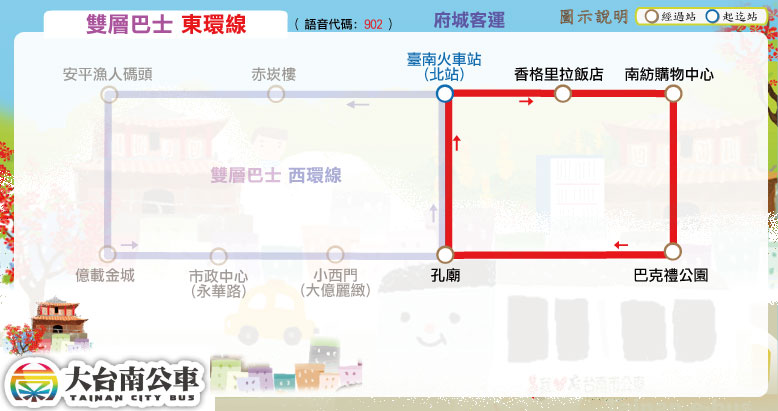
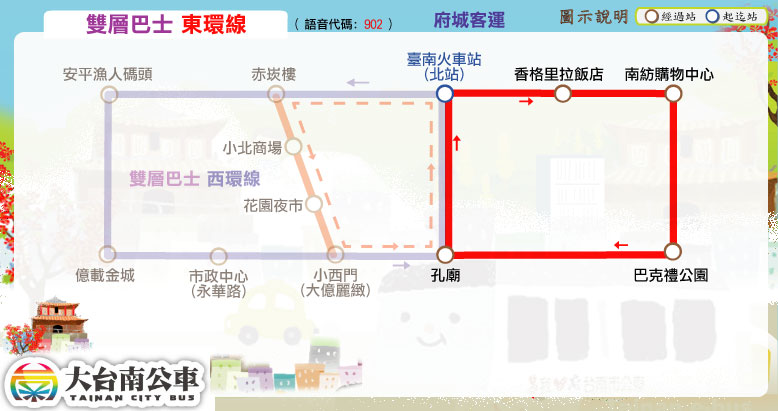
更新時刻表及路線圖：雙層巴士西環線(增加經花園夜市之星光班次)

diff --git a/sightseeing/western.html b/sightseeing/western.html
@@ -20,7 +20,49 @@
 <script type="text/javascript">
 	block_header();
 	block_route_map(null);
-	block_route_info(route_interval,'府城客運','','里程計費','http://www.2384.com.tw/ebus/jsp/ajaxBus.jsp?pathId=1901&locale=zh_TW');
+
+	document.write('<div id="wrapper2">\
+	<a name="info"></a>\
+	<div id="routeinfo" class="container">\
+		<div class="title">\
+			<h2>大台南公車 ─ ' + route_name + ' 路線資訊</h2>\
+			<span class="byline">Tainan Bus ' + route_name_en + ', Route Information</span>\
+		</div>\
+		<div class="content">\
+			<table border="0">\
+				<tr>\
+					<td>起迄點</td>\
+					<td>臺南火車站(起迄點相同)</td>\
+				</tr>\
+				<tr>\
+					<td>營運公司</td>\
+					<td>府城客運</td>\
+				</tr>\
+				<tr>\
+					<td>首／末班車發車時刻</td>\
+					<td>\
+						往 安平漁人碼頭：09:00／18:00<br />\
+						往 花園夜市：18:30／21:00\
+					</td>\
+				</tr>\
+				<tr>\
+					<td>班距</td>\
+					<td>固定班次</td>\
+				</tr>\
+				<tr>\
+					<td>收費方式</td>\
+					<td>一日票、4小時票</td>\
+				</tr>\
+				<tr>\
+					<td>最後修改日期</td>\
+					<td>2018/07/01</td>\
+				</tr>\
+			</table>\
+			<p>　</p>\
+			<a href="http://www.2384.com.tw/ebus/jsp/ajaxBus.jsp?pathId=1901&locale=zh_TW" class="button">公車動態資訊</a>\
+		</div>\
+	</div>\
+</div>');
 	document.write('<div id="wrapper3">\
 	<a name="fare"></a>\
 	<div id="faretable" class="container">\
@@ -32,21 +74,23 @@
 			<h1>單日票：全票500元、優待票250元</h1>\
 			<p>&nbsp;</p>\
 			<h1>4小時票：全票300元、優待票150元</h1>\
+			<p>&nbsp;</p>\
+			<h2>憑雙層巴士票根，當日可免費轉乘大台南公車</h2>\
 			<center>\
+				<div style="text-align: left; width: 650px; border:solid 1px; margin-top: 30px; background-color: #BBFFBB; padding: 15px;"><h3><span style="color: red;">台南市民乘車優惠</span></h3>\
+					<ul type="square">\
+						<li><h3>107年4月1日起至107年8月31日止</h3></li>\
+						<li>►<span style="color:red;font-weight:bold;">4小時票</span> 原價NT.300，4小時內不限次數上下車(限當日使用)</li>\
+						<li>►持<span style="color:blue;font-weight:bold;">台南市民卡(一般卡)</span>刷卡搭乘，享<span style="color: red;font-weight:bold;">優惠價200元</span></li>\
+						<li>►持<span style="color:blue;font-weight:bold;">台南市民卡(敬老卡、愛心卡、愛心陪伴卡、學生卡)</span>刷卡搭乘，享<span style="color: red;font-weight:bold;">優惠價150元</span></li>\
+					</ul>\
+				</div>\
 				<div style="text-align: left; width: 650px; border:solid 1px; margin-top: 30px; background-color: #BBFFBB; padding: 15px;"><h3><span style="color: red;">即日起至107年8月31日止，臺南雙層巴士4小時票升級一日票！</span></h3>\
 					<ul type="square">\
 						<li>►凡持4小時票者，可使用期限延長至當日營業時間內有效。</li>\
 						<li>►不限購票管道，凡購買4小時票皆能在活動期間內延展。</li>\
 						<li>►本活動不可與其他優惠並行使用。</li>\
 						<li>►本活動因故無法進行時，業者保有修改、變更或暫停本活動之權利，如有未盡事宜，悉依業者相關規定或解釋辦理，並得隨時補充公告之。</li>\
-					</ul>\
-				</div>\
-				<div style="text-align: left; width: 650px; border:solid 1px; margin-top: 30px; background-color: #BBFFBB; padding: 15px;"><h3><span style="color: red;">台南市民乘車優惠</span></h3>\
-					<ul type="square">\
-						<li><h3>107年4月1日起至107年6月30日止</h3></li>\
-						<li>►<span style="color:red;font-weight:bold;">4小時票</span> 原價NT.300，4小時內不限次數上下車(限當日使用)</li>\
-						<li>►持<span style="color:blue;font-weight:bold;">台南市民卡(一般卡)</span>刷卡搭乘，享<span style="color: red;font-weight:bold;">優惠價200元</span></li>\
-						<li>►持<span style="color:blue;font-weight:bold;">台南市民卡(敬老卡、愛心卡、愛心陪伴卡、學生卡)</span>刷卡搭乘，享<span style="color: red;font-weight:bold;">優惠價150元</span></li>\
 					</ul>\
 				</div>\
 			</center>\
@@ -60,11 +104,14 @@
 		<span class="byline">Tainan Bus ' + route_name_en + ', Bus schedule</span>\
 	</div>\
 	<div class="content">\
-		<h2><font color="purple">臺南火車站→安平漁人碼頭→臺南火車站</font></h2>'
+		<h2><span style="color:purple;">臺南火車站→安平漁人碼頭→臺南火車站</span></h2>'
 	+ create_time_schedule(sightseeing_western_main_stop_name, sightseeing_western_main_stop_time_consume, sightseeing_western_important_stop, sightseeing_western_time_go, false)
-	+ TimeScheduleMSG + '</div>\
+		+ '<p>　</p>\
+			<h2><span style="color:purple;">臺南火車站→花園夜市→臺南火車站</span> <span style="color:blue">(星光班次)</span></h2>'
+	+ create_time_schedule(sightseeing_western_main_stop_name_night, sightseeing_western_main_stop_time_consume_night, sightseeing_western_important_stop_night, sightseeing_western_time_go_night, false)
+	+ TimeScheduleMSG + '<span style="font-size: 20px;font-weight:bold;">「<span style="color:blue;">導覽</span>」表示華語導覽班次。其他無華語導覽人員服務班次，將使用語音導覽系統播報</span></div>\
 </div>');
-	block_transfer(transfer_tainan_railway_station);
+	block_transfer(transfer_tainan_railway_station + transfer_anping_fishermans_wharf);
 	block_copyright();
 </script>
 </body>

diff --git a/sightseeing/eastern.html b/sightseeing/eastern.html
@@ -20,7 +20,7 @@
 <script type="text/javascript">
 	block_header();
 	block_route_map(null);
-	block_route_info(route_interval,'府城客運','','里程計費','http://www.2384.com.tw/ebus/jsp/ajaxBus.jsp?pathId=1902&locale=zh_TW');
+	block_route_info(route_interval,'府城客運','','一日票、4小時票','http://www.2384.com.tw/ebus/jsp/ajaxBus.jsp?pathId=1902&locale=zh_TW');
 	document.write('<div id="wrapper3">\
 	<a name="fare"></a>\
 	<div id="faretable" class="container">\
@@ -32,21 +32,23 @@
 			<h1>單日票：全票500元、優待票250元</h1>\
 			<p>&nbsp;</p>\
 			<h1>4小時票：全票300元、優待票150元</h1>\
+			<p>&nbsp;</p>\
+			<h2>憑雙層巴士票根，當日可免費轉乘大台南公車</h2>\
 			<center>\
+				<div style="text-align: left; width: 650px; border:solid 1px; margin-top: 30px; background-color: #BBFFBB; padding: 15px;"><h3><span style="color: red;">台南市民乘車優惠</span></h3>\
+					<ul type="square">\
+						<li><h3>107年4月1日起至107年8月31日止</h3></li>\
+						<li>►<span style="color:red;font-weight:bold;">4小時票</span> 原價NT.300，4小時內不限次數上下車(限當日使用)</li>\
+						<li>►持<span style="color:blue;font-weight:bold;">台南市民卡(一般卡)</span>刷卡搭乘，享<span style="color: red;font-weight:bold;">優惠價200元</span></li>\
+						<li>►持<span style="color:blue;font-weight:bold;">台南市民卡(敬老卡、愛心卡、愛心陪伴卡、學生卡)</span>刷卡搭乘，享<span style="color: red;font-weight:bold;">優惠價150元</span></li>\
+					</ul>\
+				</div>\
 				<div style="text-align: left; width: 650px; border:solid 1px; margin-top: 30px; background-color: #BBFFBB; padding: 15px;"><h3><span style="color: red;">即日起至107年8月31日止，臺南雙層巴士4小時票升級一日票！</span></h3>\
 					<ul type="square">\
 						<li>►凡持4小時票者，可使用期限延長至當日營業時間內有效。</li>\
 						<li>►不限購票管道，凡購買4小時票皆能在活動期間內延展。</li>\
 						<li>►本活動不可與其他優惠並行使用。</li>\
 						<li>►本活動因故無法進行時，業者保有修改、變更或暫停本活動之權利，如有未盡事宜，悉依業者相關規定或解釋辦理，並得隨時補充公告之。</li>\
-					</ul>\
-				</div>\
-				<div style="text-align: left; width: 650px; border:solid 1px; margin-top: 30px; background-color: #BBFFBB; padding: 15px;"><h3><span style="color: red;">台南市民乘車優惠</span></h3>\
-					<ul type="square">\
-						<li><h3>107年4月1日起至107年6月30日止</h3></li>\
-						<li>►<span style="color:red;font-weight:bold;">4小時票</span> 原價NT.300，4小時內不限次數上下車(限當日使用)</li>\
-						<li>►持<span style="color:blue;font-weight:bold;">台南市民卡(一般卡)</span>刷卡搭乘，享<span style="color: red;font-weight:bold;">優惠價200元</span></li>\
-						<li>►持<span style="color:blue;font-weight:bold;">台南市民卡(敬老卡、愛心卡、愛心陪伴卡、學生卡)</span>刷卡搭乘，享<span style="color: red;font-weight:bold;">優惠價150元</span></li>\
 					</ul>\
 				</div>\
 			</center>\

diff --git a/route/fare_and_time/sightseeing_western.js b/route/fare_and_time/sightseeing_western.js
@@ -4,4 +4,9 @@
 sightseeing_western_main_stop_name = ["臺南火車站<br />(北站)","赤崁樓","安平<br />漁人碼頭","億載金城","市政中心<br />(永華路)","小西門<br />(大億麗緻)","孔廟","臺南火車站<br />(北站)"];
 sightseeing_western_main_stop_time_consume = [0, 8, 33, 36, 45, 53, 57, 63];
 sightseeing_western_important_stop = [0, 2, 7]; // 臺南火車站(北站), 安平漁人碼頭, 臺南火車站(北站)
-sightseeing_western_time_go = [["08:30"],["09:00"],["10:30"],["11:00"],["12:00"],["13:30"],["14:00"],["15:00"],["16:30"],["17:00"],["18:00"],["18:30"]];
+sightseeing_western_time_go = [["09:00"],["10:30",["導覽"]],["11:00",["導覽"]],["14:00",["導覽"]],["15:00",["導覽"]],["16:30",["導覽"]],["17:00"],["18:00"]];
+
+sightseeing_western_main_stop_name_night = ["臺南火車站<br />(北站)","赤崁樓","小北商場","花園夜市","小西門<br />(大億麗緻)","孔廟","臺南火車站<br />(北站)"];
+sightseeing_western_main_stop_time_consume_night = [0, 8, 15, 20, 30, 34, 50];
+sightseeing_western_important_stop_night = [0, 3, 6]; // 臺南火車站(北站), 花園夜市, 臺南火車站(北站)
+sightseeing_western_time_go_night = [["18:30",["導覽"]],["19:30",["導覽"]],["20:00"],["20:30"],["21:00"]];
